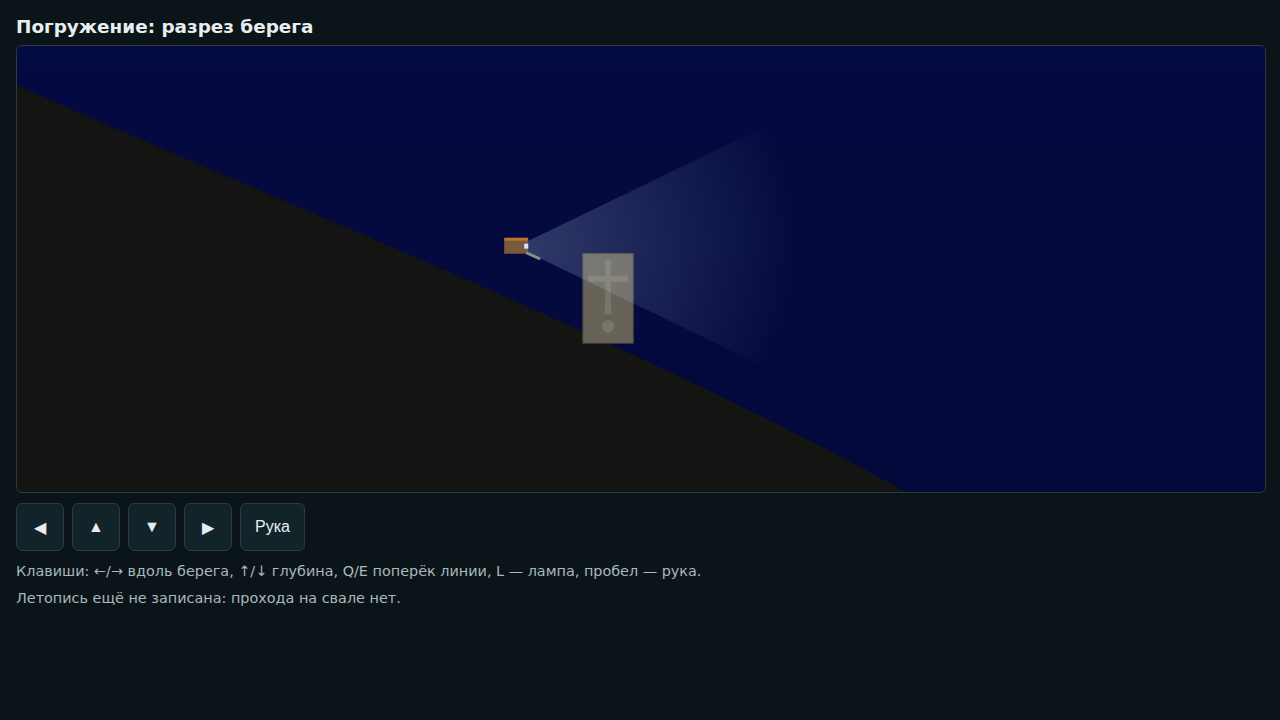
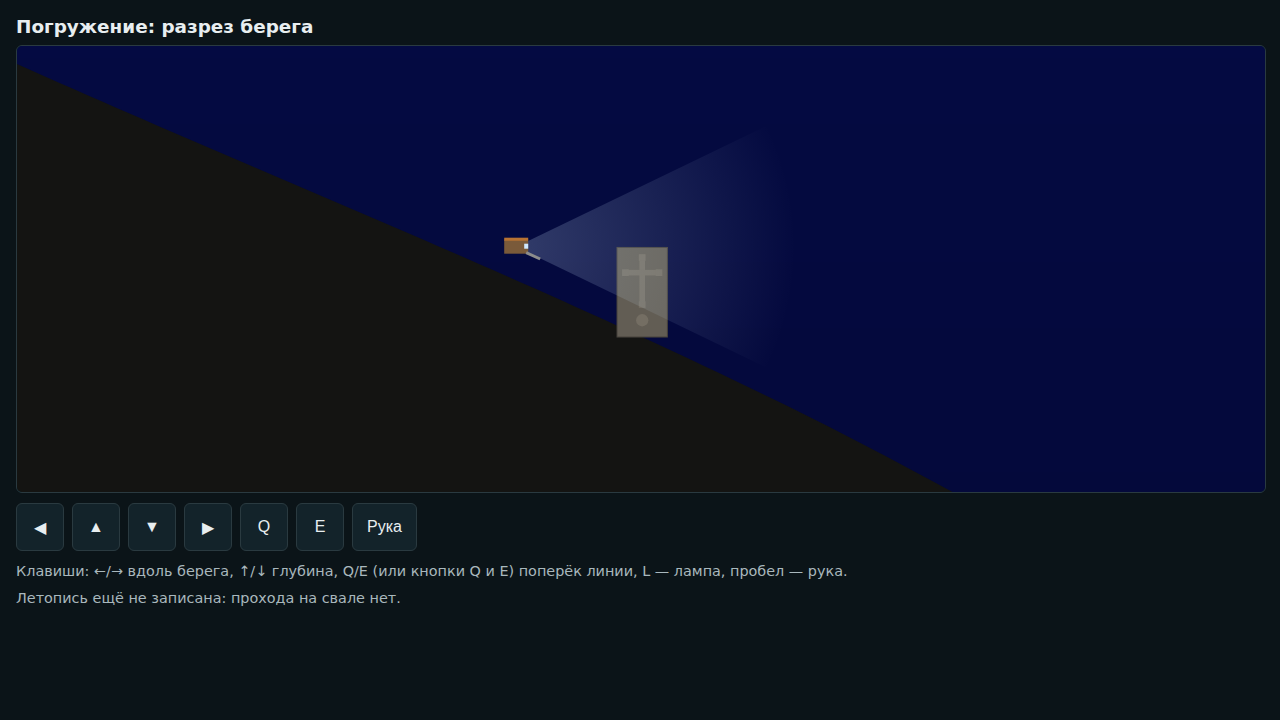
Web dive: fix review findings on canvas, khachkar frame, parity, touch
- Resize the canvas buffer when either dimension changes, not only width.
- goTo('khachkar') shrinks its stand-off until the ROV is inside
  FADE_NEAR, so the proof frame shows the console at 0, not 0.012.
- dive.gd: own_drawing_spots() is the one placement the scene builds
  and test_atlas.gd checks against the web fixture.
- Touch buttons Q/E for moving across the dive line; link the dive page
  from the game shell.

Claude-Session: https://claude.ai/code/session_015SgoYe2WsjLk8L6xDTU2JU

diff --git a/public/ludus/dive/dive-view.js b/public/ludus/dive/dive-view.js
@@ -346,9 +346,13 @@
   function draw() {
     const v = view();
     const dpr = window.devicePixelRatio || 1;
-    if (canvas.width !== Math.round(v.w * dpr)) {
-      canvas.width = Math.round(v.w * dpr);
-      canvas.height = Math.round(v.h * dpr);
+    // Both sides are checked: a phone address bar or a Quest browser
+    // window changes only the height, and a stale buffer would stretch.
+    const bw = Math.round(v.w * dpr);
+    const bh = Math.round(v.h * dpr);
+    if (canvas.width !== bw || canvas.height !== bh) {
+      canvas.width = bw;
+      canvas.height = bh;
     }
     ctx.setTransform(dpr, 0, 0, dpr, 0, 0);
     drawWater(v);
@@ -406,7 +410,7 @@
       vertical: (k.ArrowUp || k.KeyW || h.up ? 1 : 0)
         - (k.ArrowDown || k.KeyS || h.down ? 1 : 0),
       // Along the shore: z grows to the right of the dive line.
-      strafe: ((k.KeyE ? 1 : 0) - (k.KeyQ ? 1 : 0))
+      strafe: ((k.KeyE || h.far ? 1 : 0) - (k.KeyQ || h.near ? 1 : 0))
         * (Math.cos(state.rov.yaw) >= 0 ? 1 : -1),
       turn: 0,
     };
@@ -494,13 +498,29 @@
     if (!target) {
       return;
     }
+    // Up the slope the floor lifts the ROV, so at a holy thing the
+    // stand-off shrinks until the ROV is inside FADE_NEAR: the proof frame
+    // must show the console truly gone, not 3.04 m away at 0.012.
+    const holy = Boolean(target.holy);
+    let rov = null;
+    for (let off = 2.5; off >= 0.75; off -= 0.25) {
+      rov = standOff(target, off);
+      if (!holy || Atlas.holyDistance(rov, state.holy)
+          <= Atlas.FADE_NEAR - 0.2) {
+        break;
+      }
+    }
+    state.rov = rov;
+  }
+
+  function standOff(target, off) {
     const rov = Core.newRov();
-    rov.x = target.x - 2.5;
+    rov.x = target.x - off;
     rov.z = target.z;
     rov.yaw = 0;
     rov.depth = Math.max(0.5, Math.min(target.depth - 1.0,
       Core.floorDepth(rov.x, rov.z) - Core.ROV.minClearance));
-    state.rov = rov;
+    return rov;
   }
 
   // --- Loop -------------------------------------------------------------

diff --git a/public/ludus/dive/index.html b/public/ludus/dive/index.html
@@ -85,10 +85,12 @@
       <button type="button" data-hold="up" aria-label="Всплыть">▲</button>
       <button type="button" data-hold="down" aria-label="Погрузиться">▼</button>
       <button type="button" data-hold="right" aria-label="От берега">▶</button>
+      <button type="button" data-hold="near" aria-label="Поперёк линии, ближе">Q</button>
+      <button type="button" data-hold="far" aria-label="Поперёк линии, дальше">E</button>
       <button type="button" id="dive-arm">Рука</button>
     </div>
-    <p class="note">Клавиши: ←/→ вдоль берега, ↑/↓ глубина, Q/E поперёк
-      линии, L — лампа, пробел — рука.</p>
+    <p class="note">Клавиши: ←/→ вдоль берега, ↑/↓ глубина, Q/E (или кнопки Q и E)
+      поперёк линии, L — лампа, пробел — рука.</p>
     <p class="note" id="dive-chronicle"></p>
   </main>
   <script src="../ludus-water.js"></script>

diff --git a/public/index.html b/public/index.html
@@ -137,6 +137,12 @@
 
         <!-- ROV Lake Panel Container (optional, for telemetry display) -->
         <div id="ludus-rov-container"></div>
+
+        <!-- The dive cross-section is its own page; without this link it
+             could be opened only by typing its URL. -->
+        <p class="ludus-rights-link">
+            <a class="ludus-link-btn" href="/ludus/dive/index.html">Погружение: разрез берега</a>
+        </p>
     </div>
 
     <!--

diff --git a/docs/APK_PARITY.md b/docs/APK_PARITY.md
@@ -19,7 +19,7 @@
 | Испытания врат (выбор на пороге) | `public/ludus/data/gate-trials.json`, `ludus-missions.js` | `godot/scripts/trial_core.gd`, хаб у лестницы | ✅ 205 проверок |
 | Восемь страстей, признак распознавания, падение и трезвение | `ludus-passion.js`, `data/passions.json`, `ludus-antagonist-factory.js` | `godot/scripts/passion_core.gd`, калитка на дорогу во дворе | ✅ логика 17 925 проверок, встреча 161 проверка, 132 спрайта |
 | Практика поста (врата 3) | `ludus-actions.js` (`keepFast`, по дням) | `HubCore.keep_fast`, стол трапезной во дворе | ✅ сверено с JS (фикстура хаба: неверный день, повтор в тот же день, следующий день) |
-| «Атлас воды» — сквозной сюжет (99 узлов) | `docs/story/`, `public/ludus/data/atlas-99.json` | аналой в скриптории (`AtlasCore`) | ✅ чтение; ✅ летопись (выбор один раз), следы рыцаря на дне (дневник, амфора, астролябия, щит — писцу), хачкар (пульт гаснет), страница писца на аналое; ✅ в вебе следы есть: разрез погружения `public/ludus/dive/index.html` (`dive-atlas.js` — порт `AtlasTraces`, те же места по тому же seed: `godot/tests/fixtures/atlas-traces.json` сверяется и в `tests/dive-atlas.test.js`, и в `test_atlas.gd`); у хачкара рука не движется, пульт гаснет за 1,75 с, бирки и свечения нет; вещи рыцаря — писцу, не в сумку; кадры `docs/audit/2026-09-30/web-dive-*.png`; аналоя с летописью в вебе нет — веб только читает выбор (`ludus.atlas.chronicle`), без него прохода нет; `.glb`-прокси следов — следующим |
+| «Атлас воды» — сквозной сюжет (99 узлов) | `docs/story/`, `public/ludus/data/atlas-99.json` | аналой в скриптории (`AtlasCore`) | ✅ чтение; ✅ летопись (выбор один раз), следы рыцаря на дне (дневник, амфора, астролябия, щит — писцу), хачкар (пульт гаснет), страница писца на аналое; ✅ в вебе следы есть: разрез погружения `public/ludus/dive/index.html` (`dive-atlas.js` — порт `AtlasTraces`, те же места по тому же seed: `godot/tests/fixtures/atlas-traces.json` сверяется и в `tests/dive-atlas.test.js`, и в `test_atlas.gd`); у хачкара рука не движется, пульт гаснет за 1,75 с, бирки и свечения нет; вещи рыцаря — писцу, не в сумку; кадры `docs/audit/2026-09-30/web-dive-*.png`; страница открывается ссылкой из оболочки игры `public/index.html`, поперёк линии — клавиши Q/E или кнопки Q/E для касания; аналоя с летописью в вебе нет — веб только читает выбор (`ludus.atlas.chronicle`), без него прохода нет; `.glb`-прокси следов — следующим |
 | Миссии и хребет кампании | `ludus-missions.js`, `data/campaign-spine.json` | `godot/scripts/mission_core.gd`, доска дороги во дворе | ✅ логика 3474 проверки (99 миссий, два полных прохода кампании из JS); в шлеме дела миссий пишутся в `actions.practices`; трезвение — угол безмолвия или вечерний дозор в келье |
 | Журнал действий | `ludus-journal.js` | `godot/scripts/journal_core.gd`, `journal_book.gd`: береста на аналое у доски формы в южной части двора | ✅ 23 проверки; Markdown-страница = веб побайтно (5 страниц фикстуры из JS); читает `user://hub.json` и `user://dive.json`, пишет `user://journal-<дата>.md` только по нажатию на последнем листе и никогда поверх прежнего; раздел «Под водой» — только в шлеме (HLD_JOURNAL_CONFESSION_APK) |
 | Листок подготовки к исповеди | `ludus-confession.js` | `godot/scripts/confession_sheet.gd`: у угла покаяния на тропе свидетеля | ✅ по ТАБУ №0.26 п. 9: поля нет, только восемь вопросов веба (те же слова, `tests/godot-confession-sheet.test.js`), «Это не таинство», бумага или тишина сердца, «Сжечь листок» убирает; 76 проверок: ни файла, ни `user://`, ни консоли, ни сети, ни счётчика |

diff --git a/docs/HLD_WEB_DIVE_ATLAS_2026-09-30.md b/docs/HLD_WEB_DIVE_ATLAS_2026-09-30.md
@@ -11,7 +11,7 @@
 | F1 | Порт `AtlasTraces` и цикла `_build_own_drawings` в `public/ludus/dive/dive-atlas.js` (без DOM, тот же seed и тот же порядок вызовов генератора) | `node --test tests/dive-atlas.test.js`: 7 тестов |
 | F2 | Сверка «веб = шлем»: `scripts/godot/make_atlas_fixture.js` пишет `godot/tests/fixtures/atlas-traces.json`; `test_atlas.gd` ставит те же вещи в Godot и сравнивает до 1e-6, JS-тест держит фикстуру свежей | `run_hub_tests.gd`: atlas 442 → 470 проверок, 0 провалов; порча одного числа фикстуры даёт `FAIL: web '' diary on the same spot` |
 | F3 | Страница погружения `public/ludus/dive/index.html` + `dive-view.js`: разрез берега, аппарат, лампа, рука, пульт | Playwright на :8080, 0 ошибок консоли и HTTP, кадры `docs/audit/2026-09-30/web-dive-*.png` |
-| F4 | Правила святыни: хачкар `holy`, рука не движется, «Тип не определён.», пульт гаснет за 1,75 с, ни бирки, ни свечения; вещи рыцаря — в `atlas` писцу, не в сумку | тесты F1; кадр `web-dive-khachkar.png`: пульт 0, сумка `{"atlas":[]}` |
+| F4 | Правила святыни: хачкар `holy`, рука не движется, «Тип не определён.», пульт гаснет за 1,75 с, ни бирки, ни свечения; вещи рыцаря — в `atlas` писцу, не в сумку | тесты F1; кадр `web-dive-khachkar.png`: пульт 0 (Playwright, `#dive-console` opacity раз в 200 мс: 0.895 … 0.076, 0, 0, 0, 0; `?goto=khachkar` ставит аппарат ближе `FADE_NEAR` = 3 м — раньше он стоял в 3,04 м и пульт оставался 0,012), сумка `{"atlas":[]}` |
 | F5 | Опись и мера | `APK_PARITY.md`, ворота бюджетов ниже |
 
 ## Решения хора
@@ -32,5 +32,7 @@
 | dive: вызовы отрисовки (кадр) | 255 | 255 |
 | dive: примитивы, два глаза | 407 302 | 407 302 |
 | dive: память текстур сверх пустой | 27 667 066 Б | 27 667 066 Б |
+
+**Правка по ревью (2026-09-30).** `dive.gd`: размещение своих рисунков вынесено в `static func own_drawing_spots(kit)`; `_build_own_drawings` и `test_atlas.gd` зовут одну функцию, так что сверка с вебом проверяет код сцены, а не его копию (порча `0.45` → `0.46` в `dive.gd` даёт `FAIL: web own drawings on the same spots (0 of 134)`; atlas 470 → 476 проверок, 0 провалов). Замер после правки: `check_budgets.py --tree` — файлы экспорта 17 620 043 → 17 620 445 Б (+402 Б, комментарий у функции), `measure_budgets.gd --scene=dive --check` — вызовы 255, примитивы 407 302, текстуры 27 667 066 Б: сцена та же. Веб: буфер холста меняется и по высоте, кнопки Q/E для касания, ссылка на разрез из оболочки игры (`public/index.html`).
 
 Только в Quest 3: частота кадров и читаемость разреза в браузере шлема — оператор.
